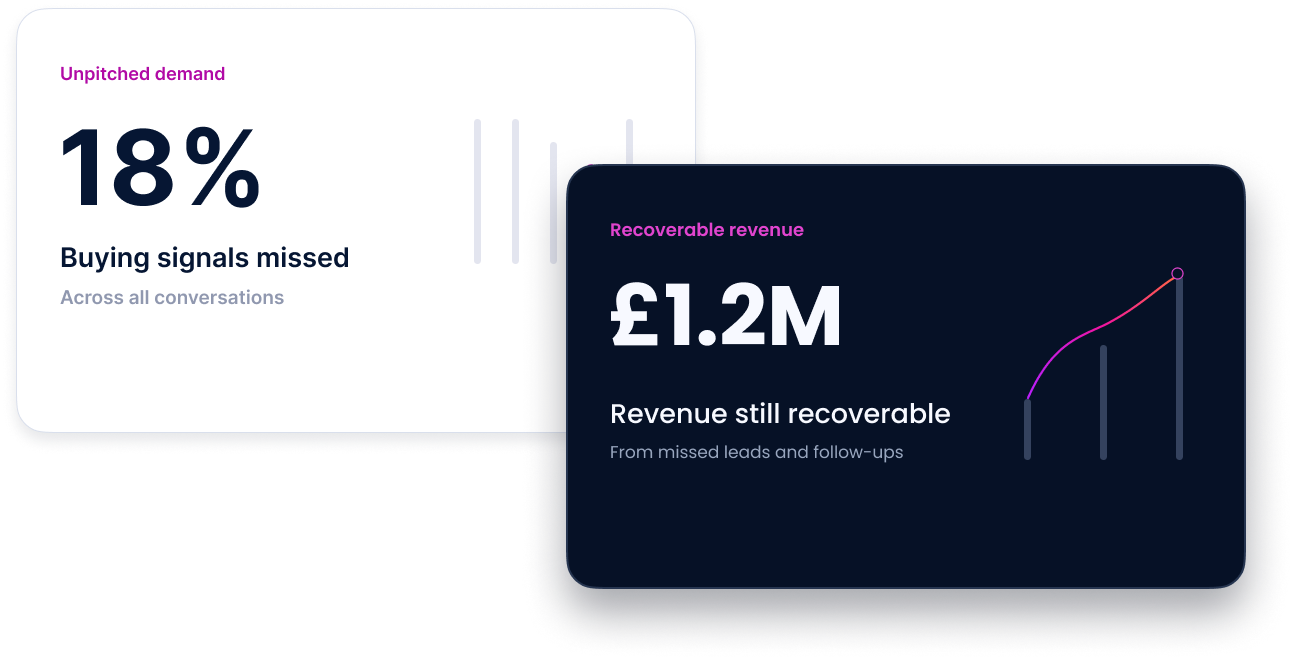
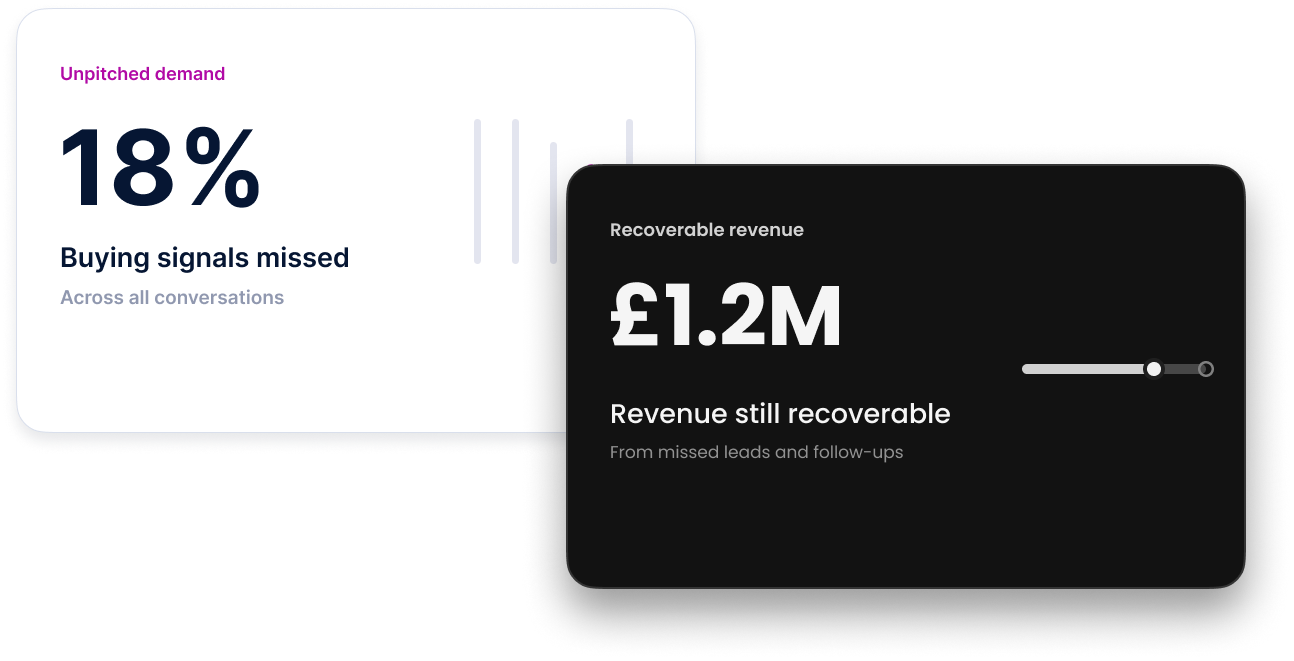
Use updated revenue recovery graphic

diff --git a/app/components/IntelligenceLandingPage.tsx b/app/components/IntelligenceLandingPage.tsx
@@ -514,24 +514,7 @@ function IntelligenceSections({
                   className={`standard-visual revenue-blank-visual${sectionImage ? " revenue-section-visual" : ""}`}
                 >
                   {sectionImage ? (
-                    <div
-                      aria-label={sectionImage.alt}
-                      className="revenue-recover-composite"
-                      role="img"
-                    >
-                      <img
-                        alt=""
-                        aria-hidden="true"
-                        className="revenue-recover-base"
-                        src={sectionImage.src}
-                      />
-                      <img
-                        alt=""
-                        aria-hidden="true"
-                        className="revenue-recover-card"
-                        src="/revenue-recover-card.png"
-                      />
-                    </div>
+                    <img alt={sectionImage.alt} src={sectionImage.src} />
                   ) : null}
                 </div>
 

diff --git a/app/globals.css b/app/globals.css
@@ -1462,27 +1462,9 @@ a {
   background: transparent;
 }
 
-.revenue-recover-composite {
-  position: relative;
-  width: 100%;
-  aspect-ratio: 1294 / 661;
-}
-
-.revenue-recover-base {
+.revenue-section-visual > img {
   display: block;
   width: 100%;
-  max-width: none;
-  height: auto;
-  margin: 0;
-  object-fit: contain;
-}
-
-.revenue-recover-card {
-  position: absolute;
-  top: 18.8%;
-  left: 40.2%;
-  display: block;
-  width: 59.7%;
   max-width: none;
   height: auto;
   margin: 0;
